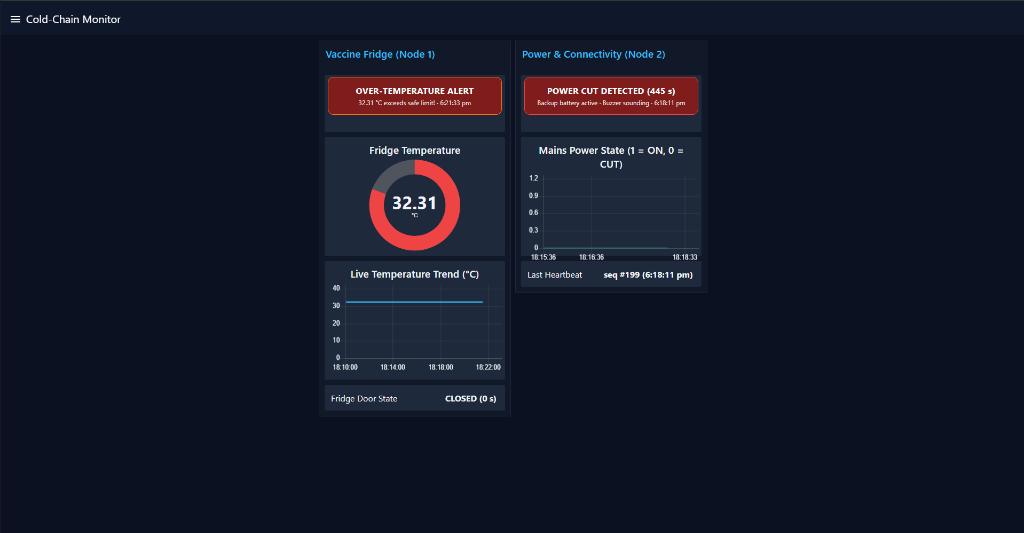
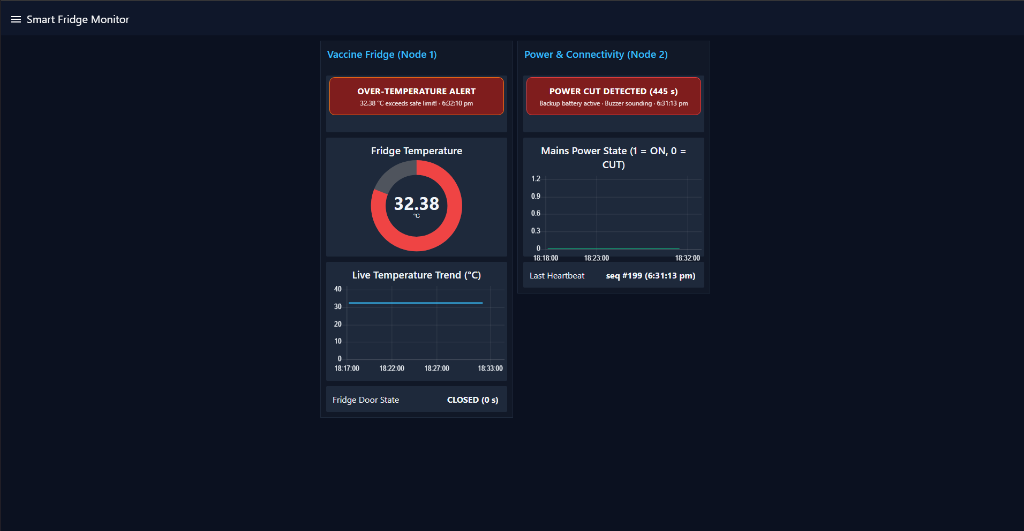
Update Stage 8 docs and screenshot for Smart Fridge Monitor

diff --git a/docs/evidence/stage_8/08-dashboards-cmd.md b/docs/evidence/stage_8/08-dashboards-cmd.md
@@ -1,6 +1,6 @@
 # Stage 8 — Dashboards + Remote Command Path (`campus/sensor01/cmd`)
 
-**Goal:** Map MQTT command messages on `campus/sensor01/cmd` to Node 1's `breach` flag so security alerts can be triggered/cleared remotely, and deploy a dual-view Node-RED dashboard (**Cold-Chain Monitor** + **Security Ops (SOC)**).
+**Goal:** Map MQTT command messages on `campus/sensor01/cmd` to Node 1's `breach` flag so security alerts can be triggered/cleared remotely, and deploy a dual-view Node-RED dashboard (**Smart Fridge Monitor** + **Security Ops (SOC)**).
 
 ---
 
@@ -10,7 +10,7 @@
   * Subscribes to `TOPIC_CMD` (`campus/sensor01/cmd`) on MQTT connect.
   * `onMqttCmd` parses `"breach"` / `"clear"` (plain text or JSON `{"cmd":"breach"}`) and drives the same `breach` boolean flag as the Serial Monitor, enforcing priority (`BREACH > TEMP > DOOR`) and locking the red security LED + fast continuous buzzer pattern.
 * **Node-RED Dashboard (`gateway/nodered_flow.json`):**
-  * **Tab 1 — Cold-Chain Monitor:** Dynamic status banners for fridge safety and mains power, live temperature donut gauge & trend chart, door open timer, and mains power step chart.
+  * **Tab 1 — Smart Fridge Monitor:** Dynamic status banners for fridge safety and mains power, live temperature donut gauge & trend chart, door open timer, and mains power step chart.
   * **Tab 2 — Security Ops (SOC):** Remote **Trigger Security Breach Alarm** / **Clear Security Breach** buttons publishing to `campus/sensor01/cmd`, plus a real-time security & anomaly feed flagging implausible/spoofed temperatures, sequence replay/gaps, LWT offline drops, and operator commands.
 
 ---
@@ -20,7 +20,7 @@
 | # | Test | Type | Expected | Result |
 | :--- | :--- | :--- | :--- | :--- |
 | 1 | Publish `breach` to `campus/sensor01/cmd` while `TEMP` alarm is active | Positive | `SECURITY BREACH` overrides `OVER-TEMPERATURE` immediately; red LED solid ON + fast buzzer | ✅ Serial Monitor logged `>>> ALARM OVER-TEMPERATURE -> SECURITY BREACH` immediately |
-| 2 | View **Cold-Chain Monitor** in Node-RED (`http://localhost:1880/ui`) | Positive | Live `sensor01` temperature (`32.31 °C`) + `sensor02` power cut (`445 s`) rendered with alert banners | ✅ Both cards and live charts updated in real time |
+| 2 | View **Smart Fridge Monitor** in Node-RED (`http://localhost:1880/ui`) | Positive | Live `sensor01` temperature (`32.31 °C`) + `sensor02` power cut (`445 s`) rendered with alert banners | ✅ Both cards and live charts updated in real time |
 | 3 | Trigger & clear breach from **Security Ops (SOC)** dashboard buttons | Positive | Node 1 responds to dashboard buttons; events logged in SOC feed | ✅ Both `TRIGGER` and `CLEAR` logged with timestamps and severity badges |
 | 4 | Observe sequence anomalies / spoof checks in SOC feed | Anomaly detection | Duplicate/replayed `seq` values flagged as `WARN` | ✅ SOC feed caught and logged `Replay or duplicate seq detected (176 <= 176)` |
 
@@ -31,7 +31,7 @@
 | File | Shows |
 | :--- | :--- |
 | `50_remote_breach_serial.png` | Node 1 Serial Monitor receiving `MQTT CMD [campus/sensor01/cmd]: breach` and overriding `OVER-TEMPERATURE` |
-| `51_dashboard_coldchain.png` | Node-RED **Cold-Chain Monitor** tab showing live fridge temperature (`32.31 °C`) and Node 2 power cut |
+| `51_dashboard_coldchain.png` | Node-RED **Smart Fridge Monitor** tab showing live fridge temperature and Node 2 power status |
 | `52_dashboard_soc.png` | Node-RED **Security Ops (SOC)** tab showing remote breach buttons and real-time anomaly feed |
 
 ![Remote breach command on Node 1](50_remote_breach_serial.png)
@@ -44,6 +44,6 @@
 
 ## 4. Result
 
-- [x] Stage 8: `campus/sensor01/cmd` remotely drives Node 1's `breach` alarm with priority override, and the dual-view Node-RED dashboard (Cold-Chain Monitor + Security Ops SOC) is live and verified.
+- [x] Stage 8: `campus/sensor01/cmd` remotely drives Node 1's `breach` alarm with priority override, and the dual-view Node-RED dashboard (Smart Fridge Monitor + Security Ops SOC) is live and verified.
 
 **Next:** Stage 9 — Mutual TLS on port `8883`, per-device topic ACLs, and signed updates with anti-rollback (`M1–M4`).

diff --git a/docs/05-gateway-mobius.md b/docs/05-gateway-mobius.md
@@ -6,4 +6,4 @@ Full write-ups and verified evidence are documented in:
 
 ## Summary
 - **Stage 7:** Raspberry Pi 4 (`192.168.0.24`) runs [`gateway/bridge.py`](../gateway/bridge.py), forwarding MQTT telemetry from `sensor01` and `sensor02` to Mobius 3.0.1 (`192.168.0.12:7579`) with `201 / RSC 2001` responses. Baseline lack of oneM2M ACP (`X-M2M-Origin: Cfakehacker` returning `200 OK`) is recorded for Stage 11.
-- **Stage 8:** [`firmware/node1_fridge/node1_fridge.ino`](../firmware/node1_fridge/node1_fridge.ino) subscribes to `campus/sensor01/cmd` (`"breach"` / `"clear"`), and [`gateway/nodered_flow.json`](../gateway/nodered_flow.json) provides both the **Cold-Chain Monitor** and **Security Ops (SOC)** dashboards.
+- **Stage 8:** [`firmware/node1_fridge/node1_fridge.ino`](../firmware/node1_fridge/node1_fridge.ino) subscribes to `campus/sensor01/cmd` (`"breach"` / `"clear"`), and [`gateway/nodered_flow.json`](../gateway/nodered_flow.json) provides both the **Smart Fridge Monitor** and **Security Ops (SOC)** dashboards.
